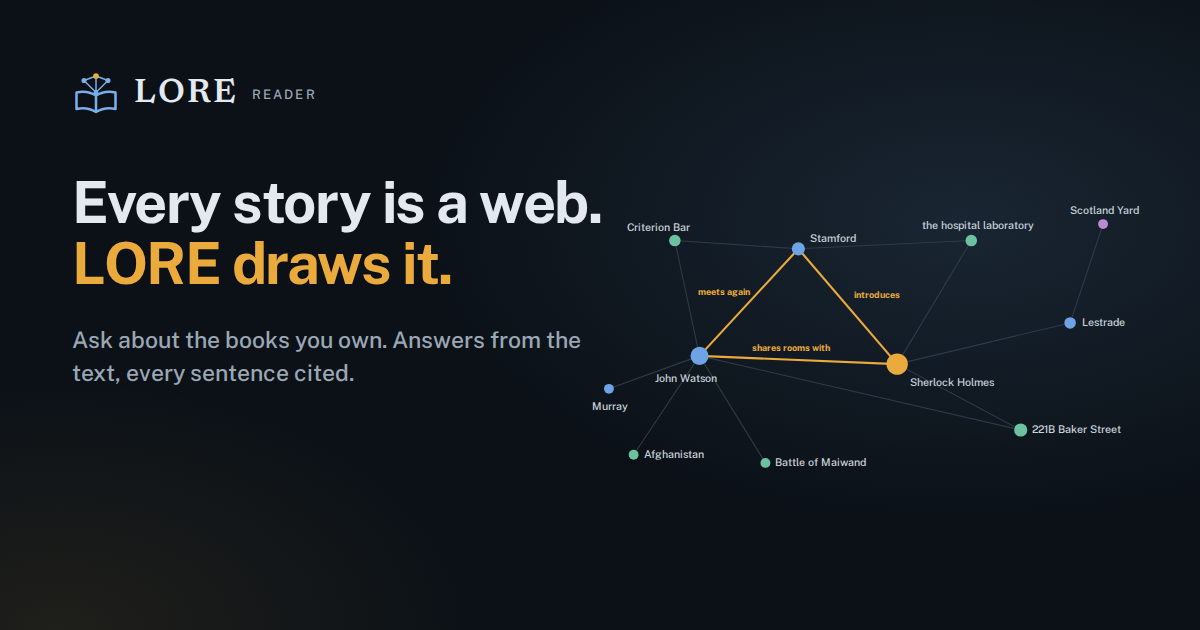
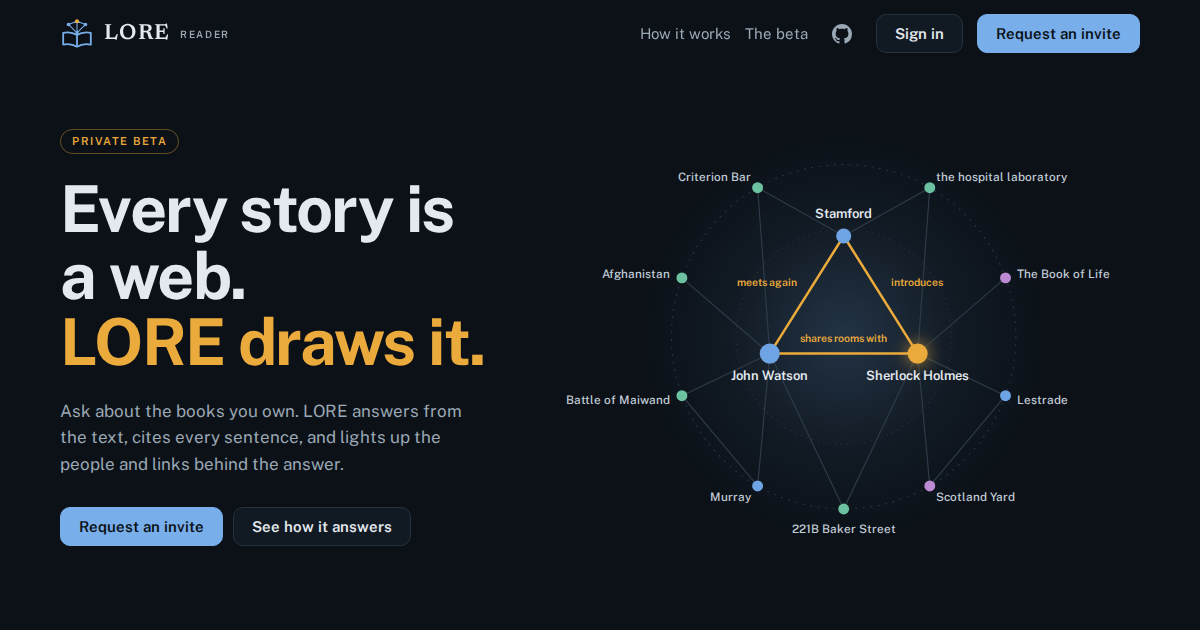
feat(og): the link-preview image is the live homepage hero, photographed from the build
web/scripts/og-image.mjs now serves the built, pre-rendered homepage as the
server does and screenshots it at 1200 x 630 with motion reduced (the scroll
cue hidden), instead of drawing an approximation of an older hero. og:image is
/og.png?v=2 so link previews that cache by address fetch the new image.

diff --git a/tests/test_web_pages.py b/tests/test_web_pages.py
@@ -117,7 +117,7 @@ def test_the_public_pages_carry_their_title_description_and_open_graph_tags(env,
     assert '<meta property="og:description" content="' in html
     assert '<meta property="og:type" content="website">' in html
     assert f'<meta property="og:url" content="{BASE_URL}{path}">' in html
-    assert f'<meta property="og:image" content="{BASE_URL}/og.png">' in html
+    assert f'<meta property="og:image" content="{BASE_URL}/og.png?v=2">' in html
     assert '<meta name="twitter:card" content="summary_large_image">' in html
     assert MARK in html and "<div id=root>" in html
     # Nothing a strict CSP (no inline scripts) would refuse: the homepage's one script

diff --git a/lore/web/public_pages.py b/lore/web/public_pages.py
@@ -25,7 +25,9 @@ PAGES: dict[str, tuple[str, str]] = {
                "The few rules of LORE's private beta: in plain English."),
 }
 SIGNED_IN = '<meta name="lore-signed-in" content="1">'
-OG_IMAGE = "/og.png"  # web/public/og.png, 1200 x 630, drawn from the hero
+# web/public/og.png, 1200 x 630, photographed from the hero (web/scripts/og-image.mjs). Bump the
+# version whenever the image changes: link previews (LinkedIn, X, Slack) cache it by its address.
+OG_IMAGE = "/og.png?v=2"
 _TITLE = re.compile(r"<title>.*?</title>", re.S)
 
 
